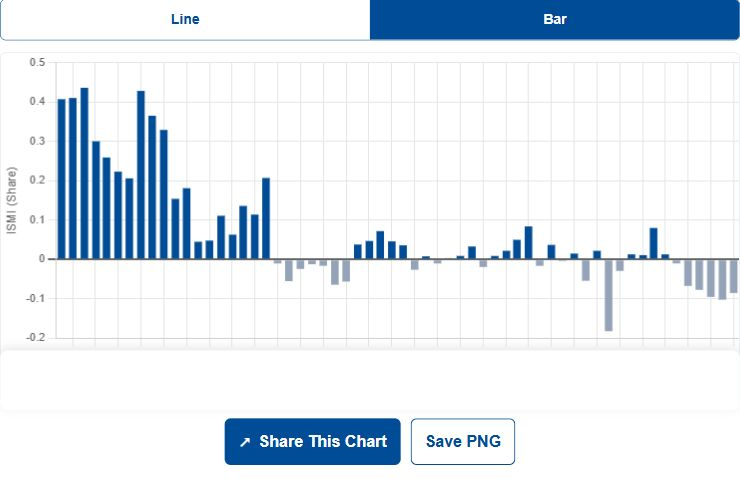
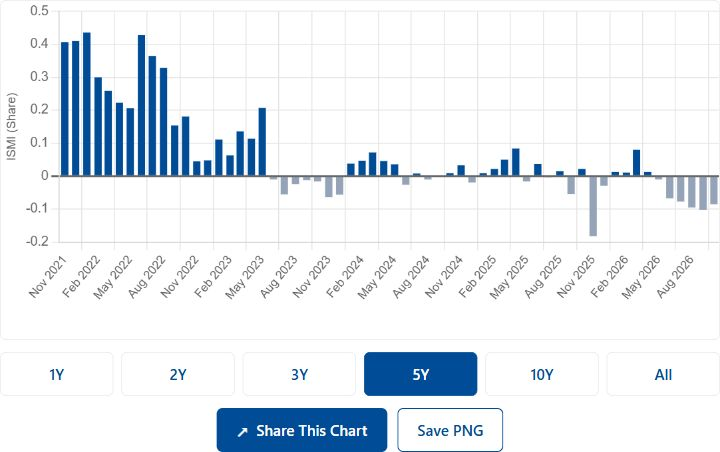
Align chart areas and controls in dashboard previews

diff --git a/docs/index.html b/docs/index.html
@@ -1,2 +1,2 @@
 <!doctype html>
-<html lang="en"><head><meta charset="utf-8"><meta name="viewport" content="width=device-width, initial-scale=1"><meta name="theme-color" content="#6a2036"><title>Adam Hale Shapiro | Economist</title><meta name="description" content="Research, publications, economic letters, code and data from economist Adam Hale Shapiro."><link rel="icon" href="assets/favicon.svg?v=8fddd67f42" type="image/svg+xml"><link rel="stylesheet" href="assets/style.css?v=a4621b38df"><script defer src="assets/site.js?v=a04e65457d"></script><script data-goatcounter="https://adam-hale-shapiro.goatcounter.com/count" async src="https://gc.zgo.at/count.js"></script></head><body id="top"><a class="skip-link" href="#content">Skip to content</a><header class="site-header"><div class="header-inner"><a class="brand" href="./">Adam Hale Shapiro</a><button class="menu-toggle" type="button" aria-expanded="false" aria-controls="site-nav"><span>Menu</span><svg viewBox="0 0 20 20" width="20" height="20" aria-hidden="true"><path d="M3 6h14M3 10h14M3 14h14"/></svg></button><nav id="site-nav" aria-label="Main navigation"><a aria-current="page" href="./">Home</a><a href="research/">Research</a><a href="blank-1/">Letters</a><a href="blank-2/">Code & Data</a><a class="nav-cv" href="https://www.frbsf.org/wp-content/uploads/CV-Shapiro.pdf">CV</a></nav></div></header><main id="content" class="home-main"><h1 class="sr-only">Adam Hale Shapiro</h1><div class="tree-banner"><img src="assets/forest-banner.jpg" alt="Sunlight falling on snow-covered trees" width="1600" height="440" fetchpriority="high"></div><section class="hero"><div class="hero-copy"><div class="hero-tools"><div class="profile-links"><a class="profile-link" aria-label="Google Scholar" href="https://scholar.google.com/citations?user=pll_5dwAAAAJ&amp;hl=en"><img class="profile-icon" src="assets/icons/google-scholar.svg?v=c2d19add3a" width="20" height="20" alt="" aria-hidden="true" decoding="async"><span class="profile-label">Google Scholar</span><span class="profile-label-compact" aria-hidden="true">Google Scholar</span></a><a class="profile-link" aria-label="SF Fed Profile" href="https://www.frbsf.org/our-people/economists/adam-shapiro/"><img class="profile-icon profile-icon-bank" src="assets/icons/sf-fed.png?v=929ca86e1d" width="20" height="20" alt="" aria-hidden="true" decoding="async"><span class="profile-label">SF Fed Profile</span><span class="profile-label-compact" aria-hidden="true">SF Fed</span></a><a class="profile-link" aria-label="LinkedIn" href="https://www.linkedin.com/in/adam-shapiro-019b41b/"><img class="profile-icon" src="assets/icons/linkedin.svg?v=c0879bc338" width="20" height="20" alt="" aria-hidden="true" decoding="async"><span class="profile-label">LinkedIn</span><span class="profile-label-compact" aria-hidden="true">LinkedIn</span></a></div></div></div></section><section class="home-section"><div class="section-header"><div><h2>Recent papers</h2></div><a class="text-link all-research-link" href="research/">All research</a></div><div class="featured-papers"><article class="paper research-item featured-publication" data-search-item="" data-search="&quot;News Selection and Household Inflation Expectations&quot; with Ryan Chahrour and Daniel Wilson FRBSF Working Paper April 2025. Conditionally accepted, AEJ: Macroeconomics PDF"><div class="research-copy"><h3><a href="papers/">News Selection and Household Inflation Expectations</a></h3><div class="paper-details"><p class="paper-authors">with Ryan Chahrour and Daniel Wilson</p><p class="paper-venue">FRBSF Working Paper · April 2025.</p></div><p class="paper-status">Conditionally accepted, AEJ: Macroeconomics</p><div class="paper-disclosures"><a class="resource-link primary-resource" href="https://drive.google.com/file/d/1z1Hcgu2mrh3X7V9DUCdXK9kKekRJB_dE/view">PDF</a></div></div><a class="letter-figure research-figure" href="papers/" aria-label="Read News Selection and Household Inflation Expectations"><img src="assets/research/news-selection-and-household-inflation-expectations.png?v=22cdd9a185" alt="Aggregate variation in hearing inflation news" width="956" height="650" loading="lazy" decoding="async" style="--figure-width:96.2444%;--figure-height:114.5167%;--figure-left:1.7771%;--figure-top:-9.1082%"></a></article><article class="paper research-item featured-publication" data-search-item="" data-search="&quot;Are Medicaid and Medicare Patients Treated Equally?&quot; with Calvin Ackley, Abe Dunn, Eli Liebman FRBSF Working Paper May 2024. Conditionally accepted, AEJ: Economic Policy PDF"><div class="research-copy"><h3><a href="blank/">Are Medicaid and Medicare Patients Treated Equally?</a></h3><div class="paper-details"><p class="paper-authors">with Calvin Ackley, Abe Dunn, Eli Liebman</p><p class="paper-venue">FRBSF Working Paper · May 2024.</p></div><p class="paper-status">Conditionally accepted, AEJ: Economic Policy</p><div class="paper-disclosures"><a class="resource-link primary-resource" href="_files/ugd/5f94f7_5fe90671a9e847fda98083da2f173bdd.pdf">PDF</a></div></div><a class="letter-figure research-figure" href="blank/" aria-label="Read Are Medicaid and Medicare Patients Treated Equally?"><img src="assets/research/are-medicaid-and-medicare-patients-treated-equally.png?v=b57fcc2032" alt="Health spending by payer type for dual-eligible patients" width="980" height="500" loading="lazy" decoding="async" style="--figure-width:104.3891%;--figure-height:93.2045%;--figure-left:-1.5554%;--figure-top:1.6268%"></a></article></div></section><section class="home-section"><div class="section-header"><div><h2>Interactive Dashboards</h2></div><a class="text-link all-data-link" href="blank-2/">All code &amp; data</a></div><div class="tools-grid"><a class="tool-feature" href="https://adamshap.github.io/ismi-webapp/ism_webapp.html"><div class="tool-summary"><h3>Inflation Shock Momentum</h3><p>Explore sustained movements in inflation shocks.</p></div><span class="tool-preview"><img src="assets/dashboards/ismi.jpg?v=ea28a21499" alt="" width="914" height="500" loading="lazy" decoding="async"></span></a><a class="tool-feature" href="https://adamshap.github.io/supply-demand-webapp/supply_demand_webapp.html"><div class="tool-summary"><h3>Supply &amp; Demand Driven Inflation</h3><p>Explore the supply and demand components of inflation.</p></div><span class="tool-preview"><img src="assets/dashboards/supply-demand.jpg?v=fc8bdb43d8" alt="" width="914" height="500" loading="lazy" decoding="async"></span></a></div></section></main><footer class="site-footer"><div class="footer-top"><div><a class="footer-name" href="./">Adam Hale Shapiro</a><p>Vice President &middot; Federal Reserve Bank of San Francisco</p></div><div class="footer-contact"><button class="email-reveal" type="button" data-reveal-email hidden>Show email</button><noscript><a href="https://www.frbsf.org/our-people/economists/adam-shapiro/">Contact via SF Fed profile</a></noscript><p>101 Market Street · San Francisco, CA 94105</p></div></div><p class="disclaimer">The content on this website does not represent the views of the Federal Reserve Bank of San Francisco (FRBSF) or the Federal Reserve System. <a href="https://www.frbsf.org/contact-us/">Contact the FRBSF</a> for all media inquiries.</p><div class="footer-bottom"><span>© 2026 Adam Hale Shapiro</span><a href="#top">Back to top</a></div></footer></body></html>
+<html lang="en"><head><meta charset="utf-8"><meta name="viewport" content="width=device-width, initial-scale=1"><meta name="theme-color" content="#6a2036"><title>Adam Hale Shapiro | Economist</title><meta name="description" content="Research, publications, economic letters, code and data from economist Adam Hale Shapiro."><link rel="icon" href="assets/favicon.svg?v=8fddd67f42" type="image/svg+xml"><link rel="stylesheet" href="assets/style.css?v=a4621b38df"><script defer src="assets/site.js?v=a04e65457d"></script><script data-goatcounter="https://adam-hale-shapiro.goatcounter.com/count" async src="https://gc.zgo.at/count.js"></script></head><body id="top"><a class="skip-link" href="#content">Skip to content</a><header class="site-header"><div class="header-inner"><a class="brand" href="./">Adam Hale Shapiro</a><button class="menu-toggle" type="button" aria-expanded="false" aria-controls="site-nav"><span>Menu</span><svg viewBox="0 0 20 20" width="20" height="20" aria-hidden="true"><path d="M3 6h14M3 10h14M3 14h14"/></svg></button><nav id="site-nav" aria-label="Main navigation"><a aria-current="page" href="./">Home</a><a href="research/">Research</a><a href="blank-1/">Letters</a><a href="blank-2/">Code & Data</a><a class="nav-cv" href="https://www.frbsf.org/wp-content/uploads/CV-Shapiro.pdf">CV</a></nav></div></header><main id="content" class="home-main"><h1 class="sr-only">Adam Hale Shapiro</h1><div class="tree-banner"><img src="assets/forest-banner.jpg" alt="Sunlight falling on snow-covered trees" width="1600" height="440" fetchpriority="high"></div><section class="hero"><div class="hero-copy"><div class="hero-tools"><div class="profile-links"><a class="profile-link" aria-label="Google Scholar" href="https://scholar.google.com/citations?user=pll_5dwAAAAJ&amp;hl=en"><img class="profile-icon" src="assets/icons/google-scholar.svg?v=c2d19add3a" width="20" height="20" alt="" aria-hidden="true" decoding="async"><span class="profile-label">Google Scholar</span><span class="profile-label-compact" aria-hidden="true">Google Scholar</span></a><a class="profile-link" aria-label="SF Fed Profile" href="https://www.frbsf.org/our-people/economists/adam-shapiro/"><img class="profile-icon profile-icon-bank" src="assets/icons/sf-fed.png?v=929ca86e1d" width="20" height="20" alt="" aria-hidden="true" decoding="async"><span class="profile-label">SF Fed Profile</span><span class="profile-label-compact" aria-hidden="true">SF Fed</span></a><a class="profile-link" aria-label="LinkedIn" href="https://www.linkedin.com/in/adam-shapiro-019b41b/"><img class="profile-icon" src="assets/icons/linkedin.svg?v=c0879bc338" width="20" height="20" alt="" aria-hidden="true" decoding="async"><span class="profile-label">LinkedIn</span><span class="profile-label-compact" aria-hidden="true">LinkedIn</span></a></div></div></div></section><section class="home-section"><div class="section-header"><div><h2>Recent papers</h2></div><a class="text-link all-research-link" href="research/">All research</a></div><div class="featured-papers"><article class="paper research-item featured-publication" data-search-item="" data-search="&quot;News Selection and Household Inflation Expectations&quot; with Ryan Chahrour and Daniel Wilson FRBSF Working Paper April 2025. Conditionally accepted, AEJ: Macroeconomics PDF"><div class="research-copy"><h3><a href="papers/">News Selection and Household Inflation Expectations</a></h3><div class="paper-details"><p class="paper-authors">with Ryan Chahrour and Daniel Wilson</p><p class="paper-venue">FRBSF Working Paper · April 2025.</p></div><p class="paper-status">Conditionally accepted, AEJ: Macroeconomics</p><div class="paper-disclosures"><a class="resource-link primary-resource" href="https://drive.google.com/file/d/1z1Hcgu2mrh3X7V9DUCdXK9kKekRJB_dE/view">PDF</a></div></div><a class="letter-figure research-figure" href="papers/" aria-label="Read News Selection and Household Inflation Expectations"><img src="assets/research/news-selection-and-household-inflation-expectations.png?v=22cdd9a185" alt="Aggregate variation in hearing inflation news" width="956" height="650" loading="lazy" decoding="async" style="--figure-width:96.2444%;--figure-height:114.5167%;--figure-left:1.7771%;--figure-top:-9.1082%"></a></article><article class="paper research-item featured-publication" data-search-item="" data-search="&quot;Are Medicaid and Medicare Patients Treated Equally?&quot; with Calvin Ackley, Abe Dunn, Eli Liebman FRBSF Working Paper May 2024. Conditionally accepted, AEJ: Economic Policy PDF"><div class="research-copy"><h3><a href="blank/">Are Medicaid and Medicare Patients Treated Equally?</a></h3><div class="paper-details"><p class="paper-authors">with Calvin Ackley, Abe Dunn, Eli Liebman</p><p class="paper-venue">FRBSF Working Paper · May 2024.</p></div><p class="paper-status">Conditionally accepted, AEJ: Economic Policy</p><div class="paper-disclosures"><a class="resource-link primary-resource" href="_files/ugd/5f94f7_5fe90671a9e847fda98083da2f173bdd.pdf">PDF</a></div></div><a class="letter-figure research-figure" href="blank/" aria-label="Read Are Medicaid and Medicare Patients Treated Equally?"><img src="assets/research/are-medicaid-and-medicare-patients-treated-equally.png?v=b57fcc2032" alt="Health spending by payer type for dual-eligible patients" width="980" height="500" loading="lazy" decoding="async" style="--figure-width:104.3891%;--figure-height:93.2045%;--figure-left:-1.5554%;--figure-top:1.6268%"></a></article></div></section><section class="home-section"><div class="section-header"><div><h2>Interactive Dashboards</h2></div><a class="text-link all-data-link" href="blank-2/">All code &amp; data</a></div><div class="tools-grid"><a class="tool-feature" href="https://adamshap.github.io/ismi-webapp/ism_webapp.html"><div class="tool-summary"><h3>Inflation Shock Momentum</h3><p>Explore sustained movements in inflation shocks.</p></div><span class="tool-preview"><img src="assets/dashboards/ismi.jpg?v=7394af3a57" alt="" width="914" height="500" loading="lazy" decoding="async"></span></a><a class="tool-feature" href="https://adamshap.github.io/supply-demand-webapp/supply_demand_webapp.html"><div class="tool-summary"><h3>Supply &amp; Demand Driven Inflation</h3><p>Explore the supply and demand components of inflation.</p></div><span class="tool-preview"><img src="assets/dashboards/supply-demand.jpg?v=04710d1c97" alt="" width="914" height="500" loading="lazy" decoding="async"></span></a></div></section></main><footer class="site-footer"><div class="footer-top"><div><a class="footer-name" href="./">Adam Hale Shapiro</a><p>Vice President &middot; Federal Reserve Bank of San Francisco</p></div><div class="footer-contact"><button class="email-reveal" type="button" data-reveal-email hidden>Show email</button><noscript><a href="https://www.frbsf.org/our-people/economists/adam-shapiro/">Contact via SF Fed profile</a></noscript><p>101 Market Street · San Francisco, CA 94105</p></div></div><p class="disclaimer">The content on this website does not represent the views of the Federal Reserve Bank of San Francisco (FRBSF) or the Federal Reserve System. <a href="https://www.frbsf.org/contact-us/">Contact the FRBSF</a> for all media inquiries.</p><div class="footer-bottom"><span>© 2026 Adam Hale Shapiro</span><a href="#top">Back to top</a></div></footer></body></html>
